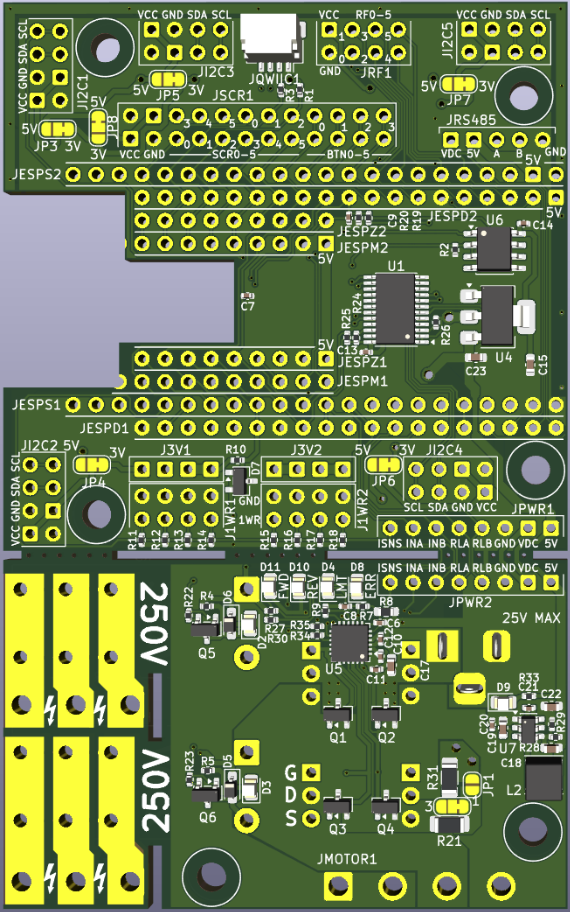
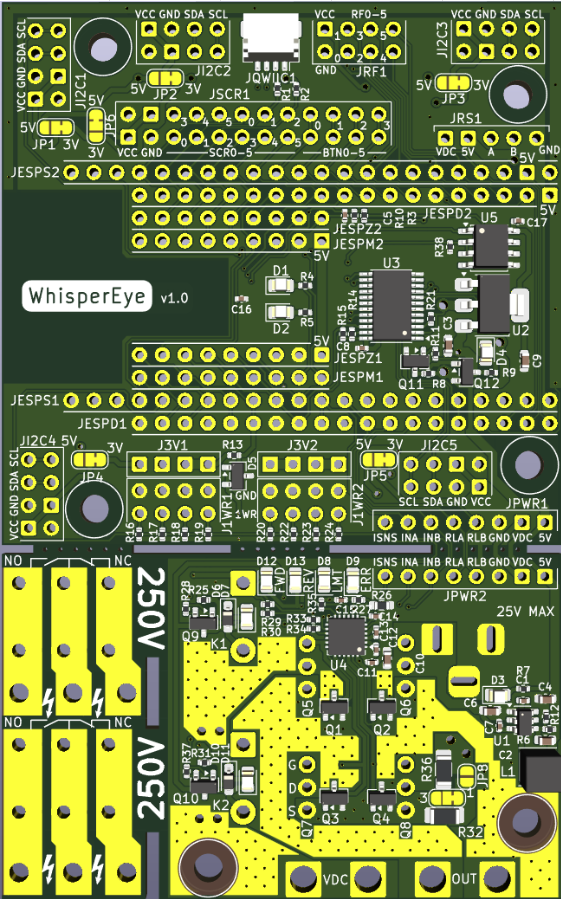
init: ESP-S3

diff --git a/boards/board_default/src/main.rs b/boards/board_default/src/main.rs
@@ -18,7 +18,7 @@ use common::BaseConfig;
 fn main() -> anyhow::Result<()> {
     // 1. Initialisation système de base d'ESP-IDF
     esp_idf_svc::log::EspLogger::initialize_default();
-    info!("Démarrage du Firmware WhisperEye sur ESP32-C6...");
+    info!("Démarrage du Firmware WhisperEye sur ESP32-S3...");
 
     let peripherals = Peripherals::take()?;
     let sys_loop = EspSystemEventLoop::take()?;
@@ -59,7 +59,7 @@ fn main() -> anyhow::Result<()> {
     let spi_config = SpiConfig::new().baudrate(10.MHz().into());
     let _spi_driver = SpiDeviceDriver::new_single(
         peripherals.spi2,
-        peripherals.pins.gpio6, // SCLK (Exemple ESP32-C6)
+        peripherals.pins.gpio6, // SCLK (Exemple ESP32-S3)
         peripherals.pins.gpio7, // MOSI
         Option::<Gpio5>::None,  // MISO (Non connecté pour l'écran)
         Some(peripherals.pins.gpio18), // CS / Chip Select

diff --git a/README.md b/README.md
@@ -1,6 +1,6 @@
 # 👁️ WhisperEye — Firmware ESP32 en Rust
 
-> **WhisperEye** est un firmware industriel modulaire, écrit en **Rust**, conçu pour une carte électronique à base d'**ESP32** (et plus particulièrement optimisé pour l'**ESP32-C6** RISC-V). Grâce à son architecture en *Cargo Workspace*, il sépare rigoureusement la logique réseau de base des orchestrations de capteurs et actionneurs spécifiques à chaque modèle de carte.
+> **WhisperEye** est un firmware industriel modulaire, écrit en **Rust**, conçu pour une carte électronique à base d'**ESP32** (et plus particulièrement optimisé pour l'**ESP32-S3** Xtensa). Grâce à son architecture en *Cargo Workspace*, il sépare rigoureusement la logique réseau de base des orchestrations de capteurs et actionneurs spécifiques à chaque modèle de carte.
 
 ---
 
@@ -26,7 +26,7 @@ WhisperEye/
 │   ├── ota.rs          # Gestionnaire de mises à jour Over-The-Air sécurisées
 │   └── http_server.rs  # Serveur HTTP avec validation TOTP dynamique
 └── boards/             # [Binary Crates] Déclinaisons spécifiques aux cartes
-    └── board_default/  # Déclinaison de référence (ESP32-C6)
+    └── board_default/  # Déclinaison de référence (ESP32-S3)
 ```
 
 ### 1. La Base Commune (`common`)
@@ -73,7 +73,7 @@ cargo install cargo-espflash
 
 ### 2. Compilation du Projet
 
-Pour compiler la déclinaison par défaut de la carte (cible **ESP32-C6** RISC-V) :
+Pour compiler la déclinaison par défaut de la carte (cible **ESP32-S3** Xtensa) :
 
 ```bash
 # Aller dans le dossier du binaire de la carte
@@ -83,10 +83,10 @@ cd boards/board_default
 cargo build --release
 ```
 
-Pour compiler pour une autre cible (ex: ESP32 classique, S3) :
+Pour compiler pour une autre cible (ex: ESP32-C6 RISC-V, ESP32 classique) :
 Vous pouvez changer la variable `MCU` et la cible `target` dans le fichier `boards/board_default/.cargo/config.toml` ou passer l'argument de compilation :
 ```bash
-cargo build --release --target xtensa-esp32-espidf
+cargo build --release --target riscv32imac-unknown-none-elf
 ```
 
 ---